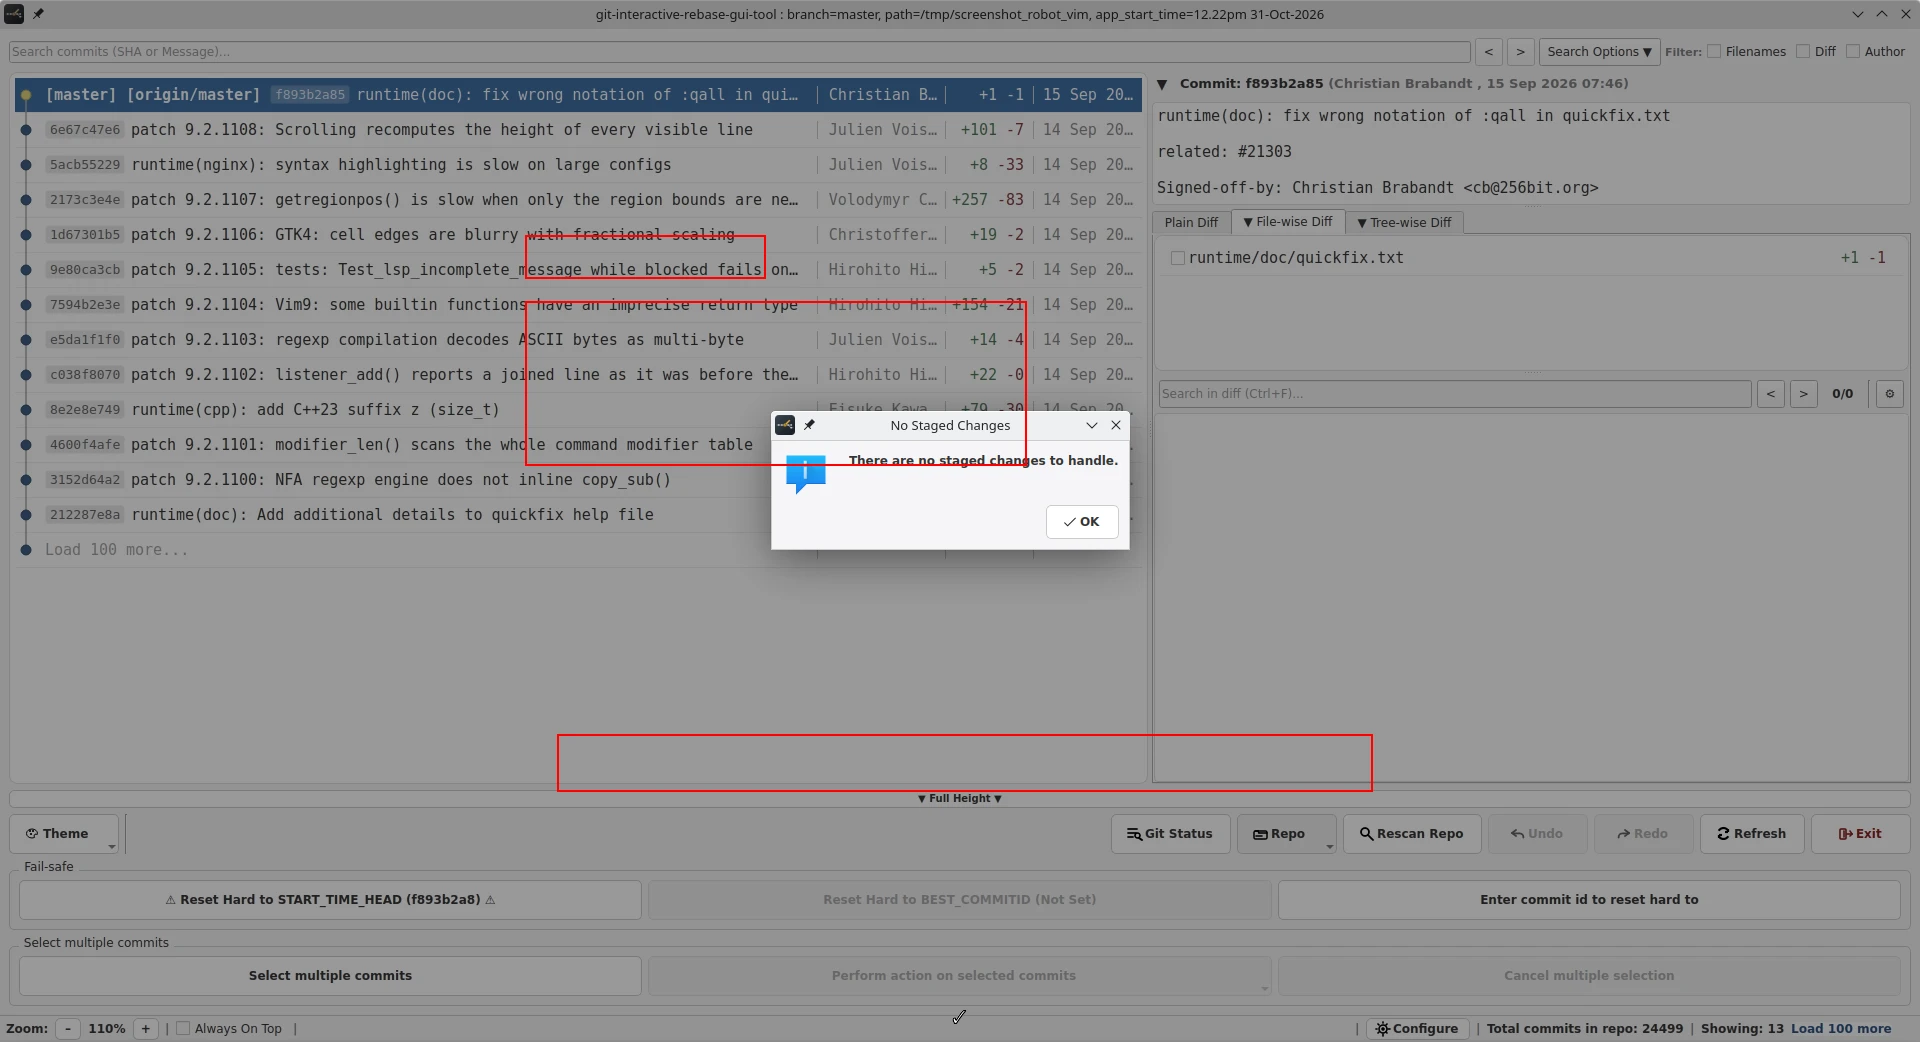
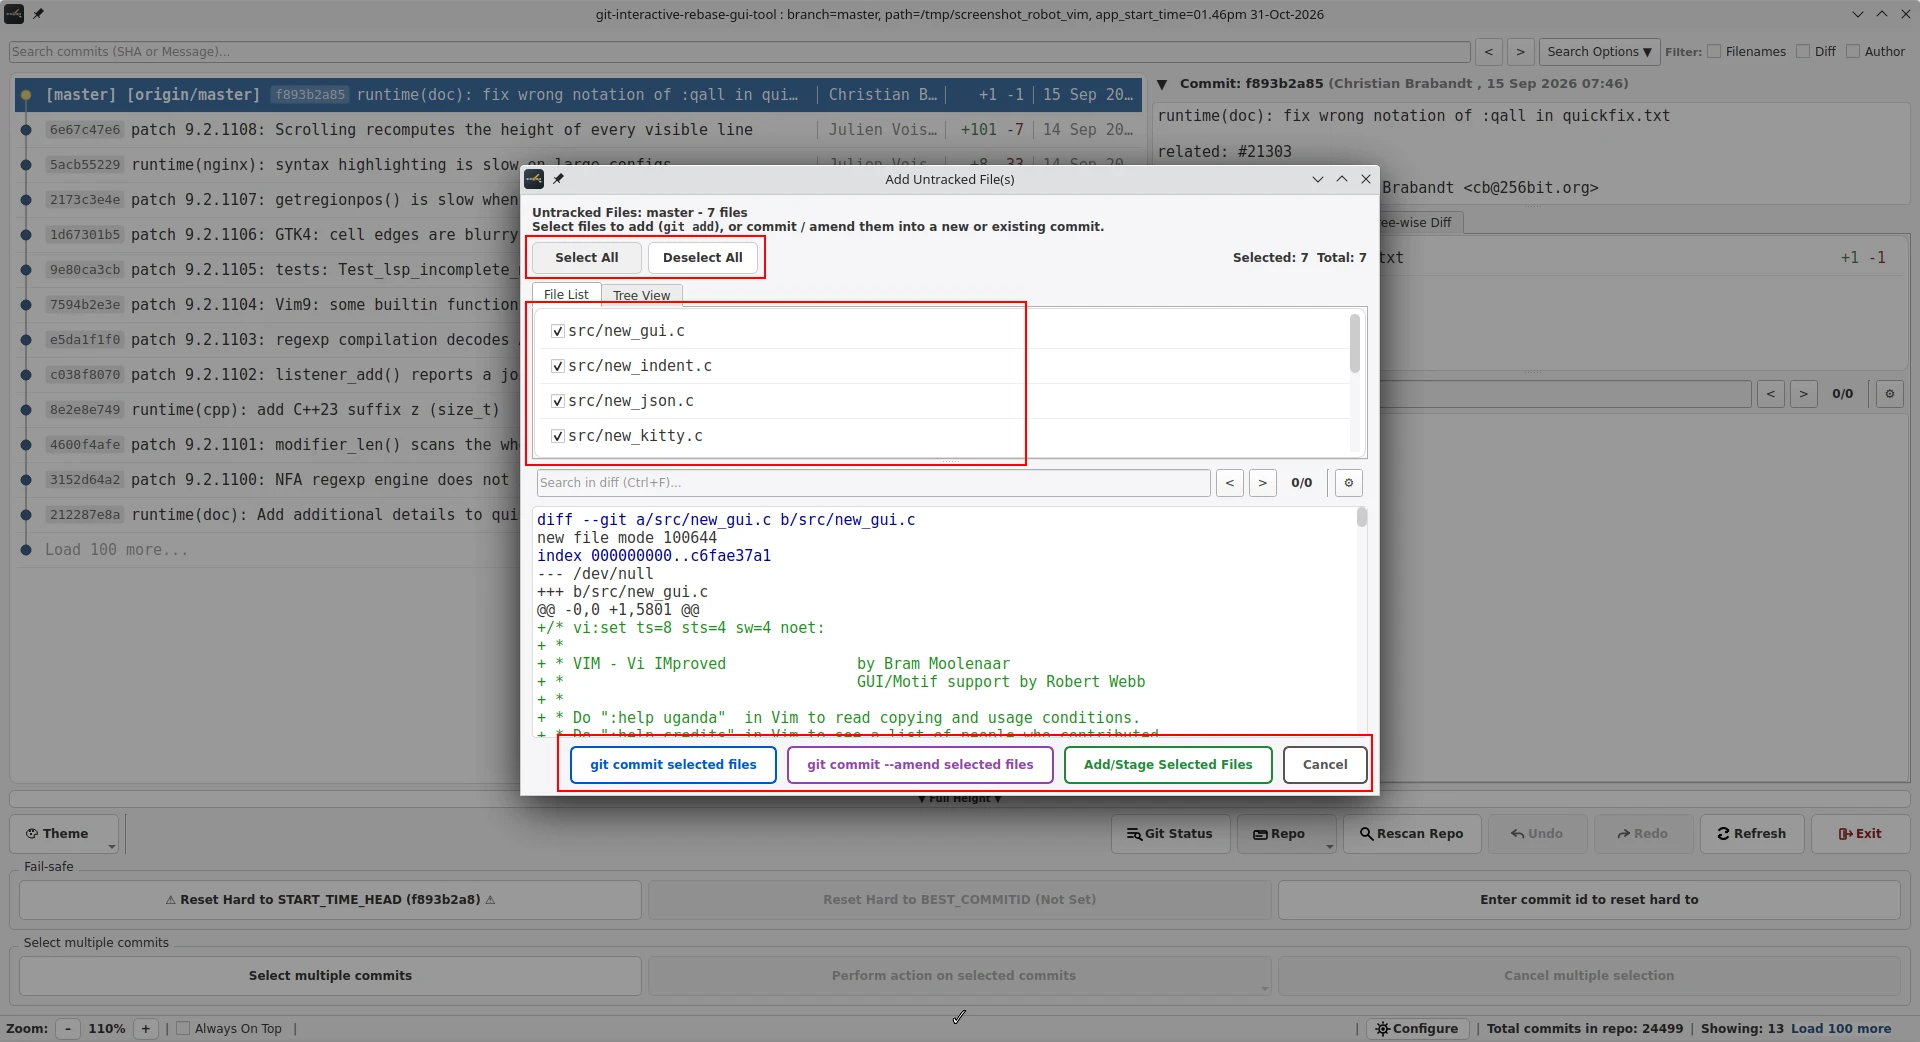
capture: add-untracked-files.webp

Changed region(s): [[0.25, 0.1536, 0.75, 0.7985]]

diff --git a/scenes/add-untracked-files.py b/scenes/add-untracked-files.py
@@ -78,6 +78,10 @@ def main():
         tool.sleep(1)
         tool.click_repo_button()
 
+        for _ in range(5):
+            tool.press("Down")
+            tool.sleep(.1)
+
         tool.sleep(1)
         tool.click(1337, 493)
 
